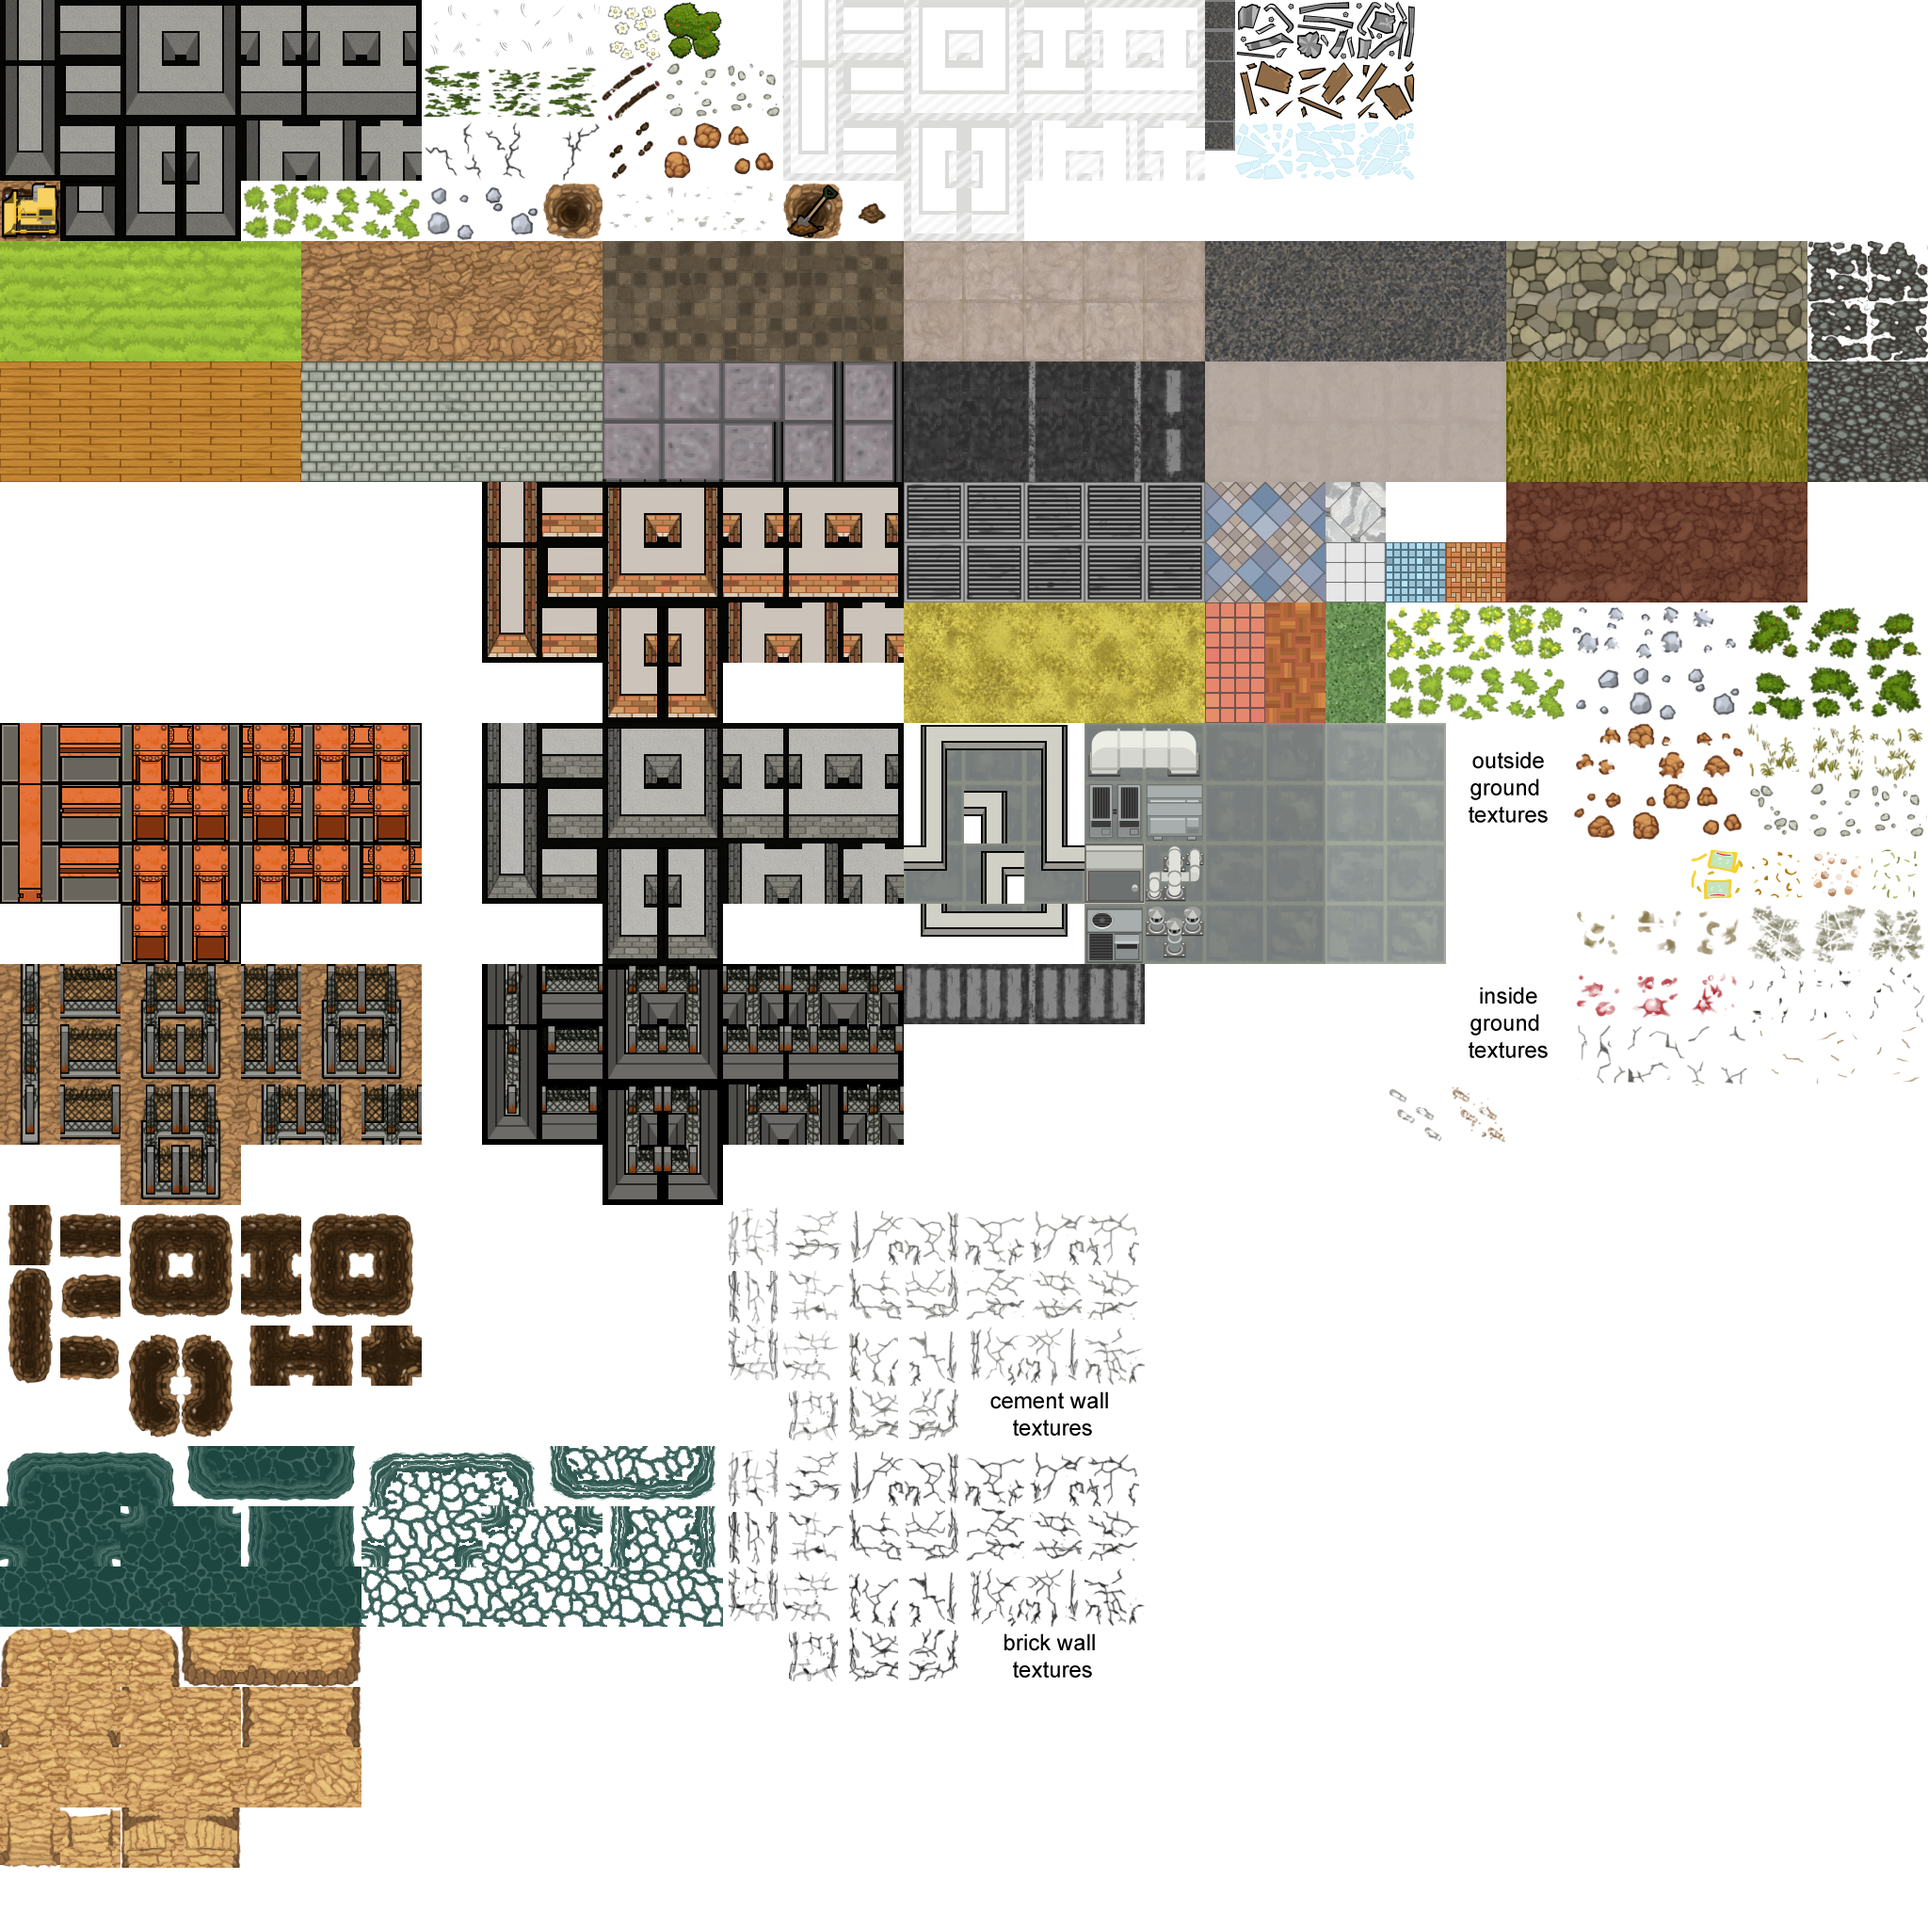
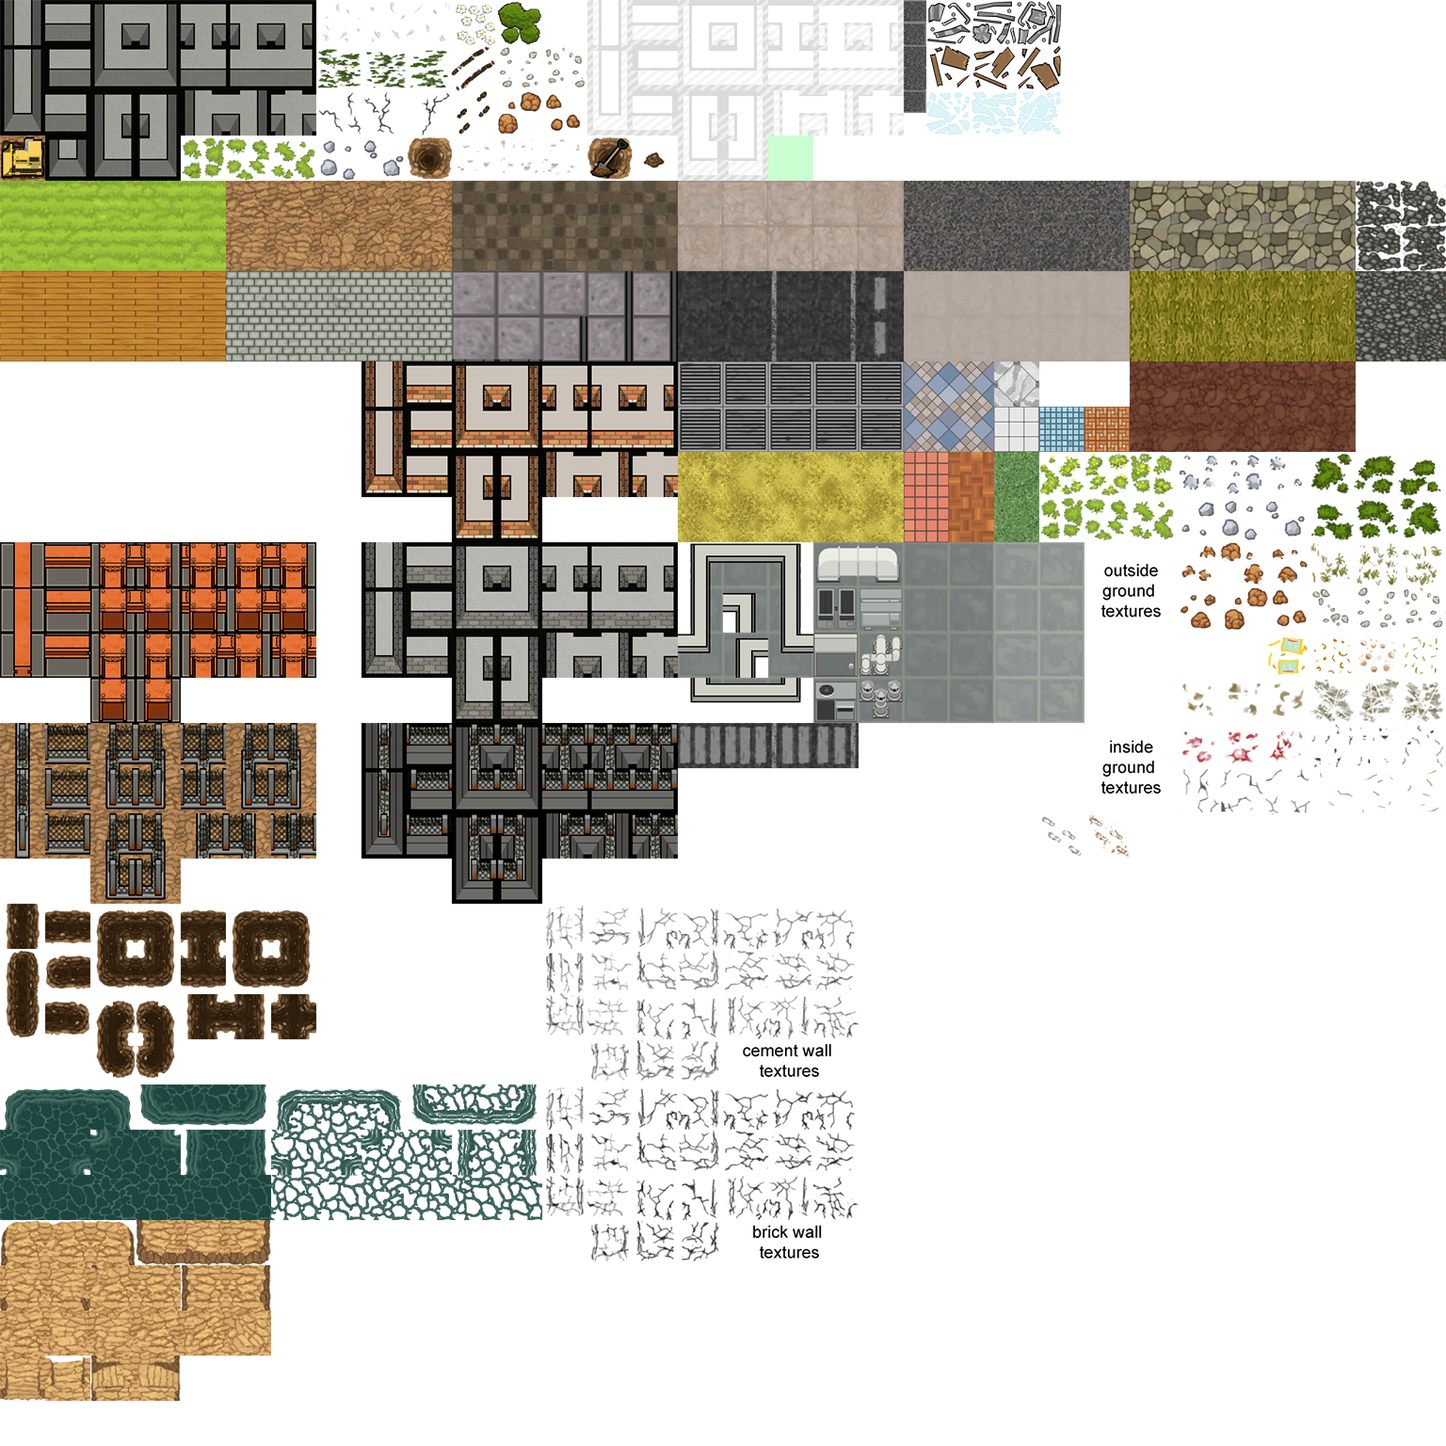
Fixed tile size.

Changed region(s): [[0.0625, 0.375, 0.2188, 0.4688], [0.6875, 0.0, 0.7188, 0.0312], [0.5312, 0.0938, 0.5625, 0.125]]

diff --git a/js/stage1.js b/js/stage1.js
@@ -8,9 +8,12 @@ var stage1State = {
     map = this.game.add.tilemap('stage1');
     map.addTilesetImage('tiles', 'tiles');
 
-    layer = map.createLayer('Tile Layer 1', PrisonBreak.configs.GAME_WIDTH, PrisonBreak.configs.GAME_HEIGHT);
-    layer.resizeWorld();
-    layer.wrap = false;
+    layer1 = map.createLayer('Tile Layer 1', PrisonBreak.configs.GAME_WIDTH, PrisonBreak.configs.GAME_HEIGHT);
+    layer1.resizeWorld();
+    layer1.wrap = false;
+    layer2 = map.createLayer('Tile Layer 2', PrisonBreak.configs.GAME_WIDTH, PrisonBreak.configs.GAME_HEIGHT);
+    layer2.resizeWorld();
+    layer2.wrap = false;
     var player = new Player(100, 100, {
       up: Phaser.Keyboard.UP,
       down: Phaser.Keyboard.DOWN,

diff --git a/index.html b/index.html
@@ -17,10 +17,10 @@
   <script src="./js/menu.js"></script>
   <script src="./js/stage1.js"></script>
   <script src="./js/win.js"></script>
+  <script src="./js/zmain.js"></script>
   <script src="./js/player/player.js"></script>
   <script src="./js/traps/saw.js"></script>
   <script src="./js/traps/saw2.js"></script>
-  <script src="./js/main.js"></script>
   <!-- endinject -->
 </head>
 

diff --git a/assets/stages/tiles.tsx b/assets/stages/tiles.tsx
@@ -1,4 +1,4 @@
 <?xml version="1.0" encoding="UTF-8"?>
-<tileset name="tiles" tilewidth="64" tileheight="64" tilecount="1024" columns="32">
- <image source="tiles.png" width="2048" height="2048"/>
+<tileset name="tiles" tilewidth="48" tileheight="48" tilecount="1024" columns="32">
+ <image source="tiles.png" width="1536" height="1536"/>
 </tileset>

diff --git a/js/zmain.js b/js/zmain.js
@@ -1,7 +1,7 @@
 var PrisonBreak = {};
 PrisonBreak.configs = {
-  GAME_WIDTH: 64*14,
-  GAME_HEIGHT: 64*8,
+  GAME_WIDTH: 900,
+  GAME_HEIGHT: 600,
 };
 
 PrisonBreak.game = new Phaser.Game(PrisonBreak.configs.GAME_WIDTH, PrisonBreak.configs.GAME_HEIGHT, Phaser.AUTO, 'gameDiv');
